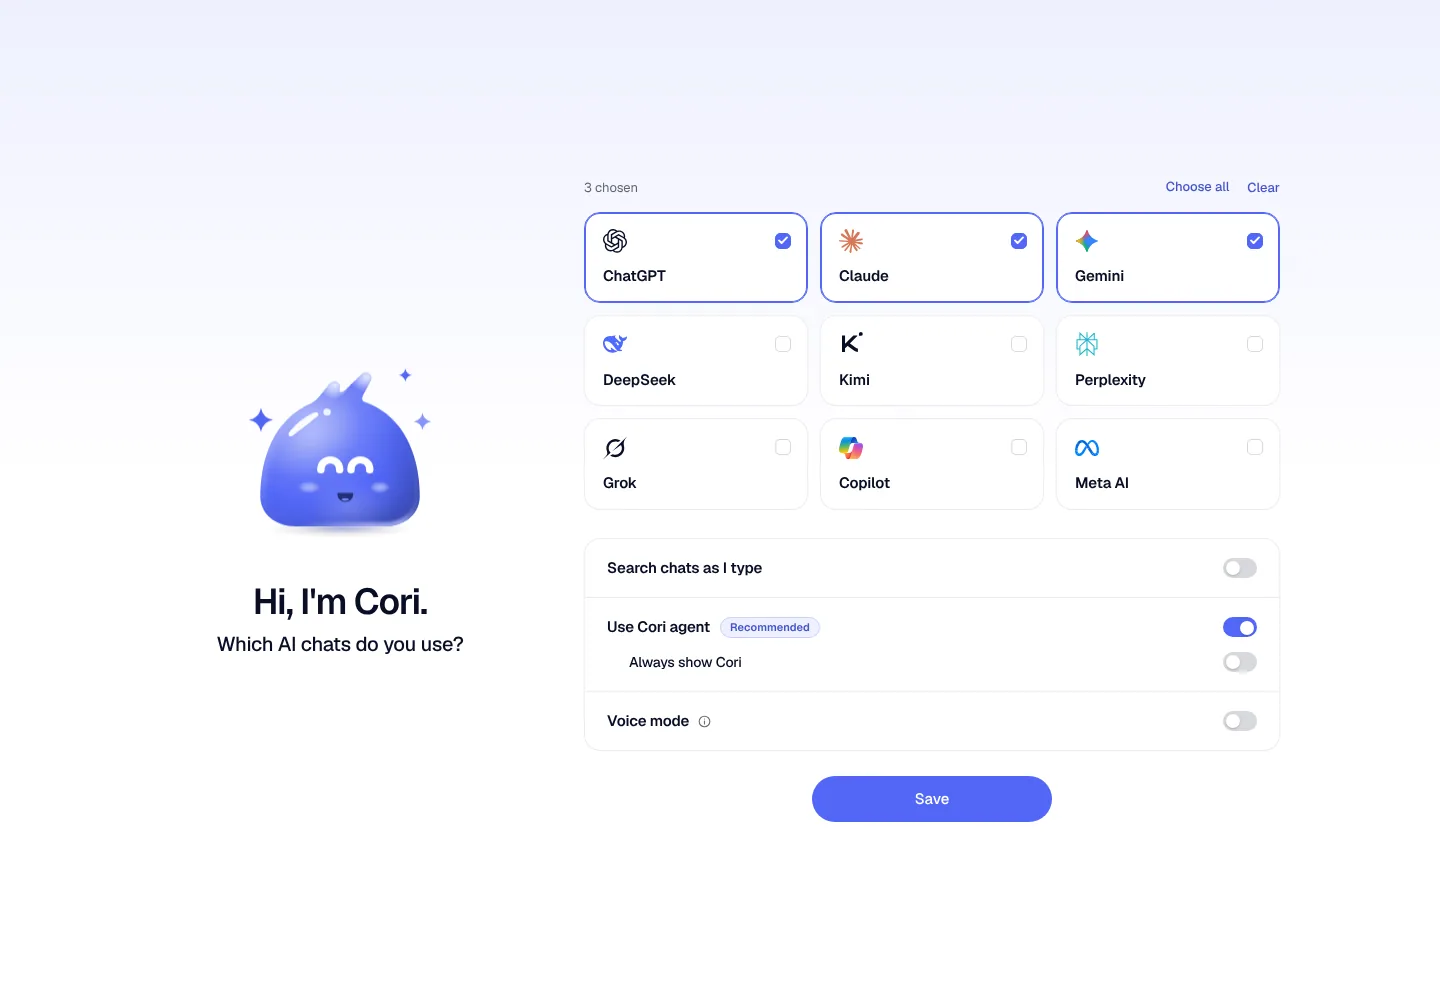
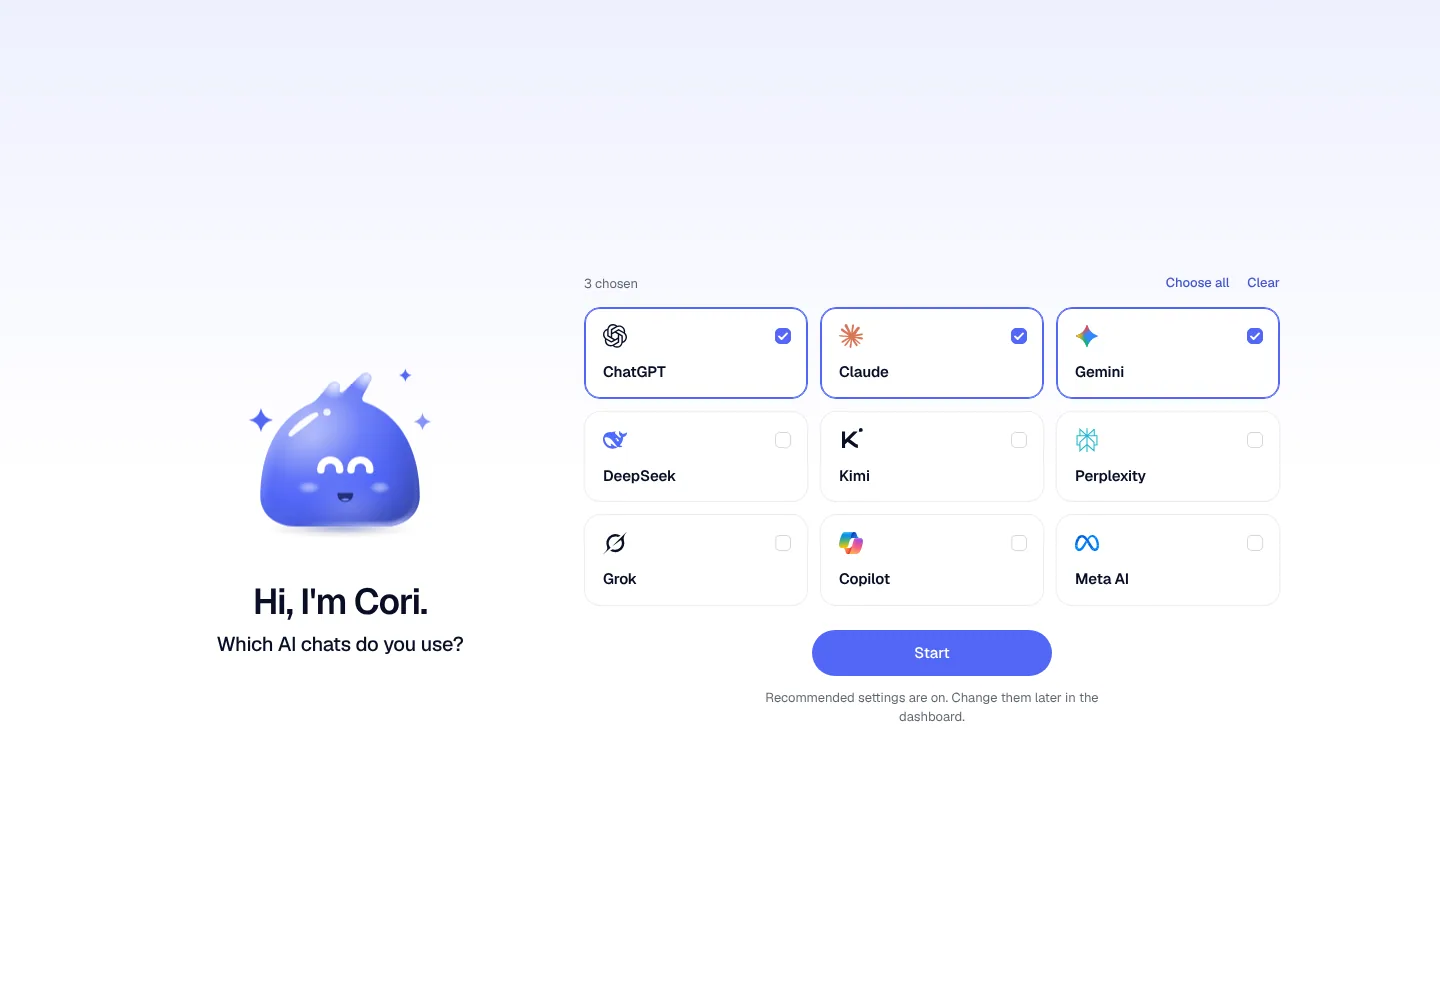
Show the extension's one choice onboarding on /welcome
The extension's v4 onboarding now asks only which AIs and then shows a working screen while it builds in the background, so the welcome pictures, their captions and the tool that takes them follow it. /welcome itself needs no change: it frames the page as before.

Claude-Session: https://claude.ai/code/session_01Ur6uqNCXa3ecJ23BnM9D9o

diff --git a/README.md b/README.md
@@ -150,14 +150,14 @@ pictures: [the site](docs/screenshots/site/README.md),
   </tr>
   <tr>
     <td width="50%">
-      <img src="docs/screenshots/dashboard/welcome.webp" alt="coere.ai/welcome framing the extension's onboarding: Hi, I'm Cori, Which AI chats do you use, with ChatGPT, Claude and Gemini chosen and Save" />
+      <img src="docs/screenshots/dashboard/welcome.webp" alt="coere.ai/welcome framing the extension's onboarding: Hi, I'm Cori, Which AI chats do you use, with ChatGPT, Claude and Gemini chosen, Start, and the line Recommended settings are on. Change them later in the dashboard." />
       <br />
-      <sub>After Connect Coere, coere.ai/welcome frames the extension's own onboarding.</sub>
+      <sub>After Connect Coere, coere.ai/welcome frames the extension's own onboarding. It asks only which AIs.</sub>
     </td>
     <td width="50%">
-      <img src="docs/screenshots/dashboard/welcome-building.webp" alt="The memory build live on coere.ai/welcome: Building memories, the graph growing among her chats on the stage, the steps, Pause and Stop, Reading Lisbon trip in January from ChatGPT, the memories each AI added, each AI's row, and the log of what Coere just did" />
+      <img src="docs/screenshots/dashboard/welcome-working.webp" alt="coere.ai/welcome after Start: Coere is saving your chats and building your memory. You can close this tab or keep browsing. We'll let you know when it's ready. A small card with her chats saved and memory's step with its count, and Open the dashboard" />
       <br />
-      <sub>Her memory building live on coere.ai: the chat in work, the graph as it grows, and Pause and Stop.</sub>
+      <sub>Then Coere saves her chats and builds her memory on its own, and says she can leave.</sub>
     </td>
   </tr>
 </table>

diff --git a/scripts/screenshots/README.md b/scripts/screenshots/README.md
@@ -77,8 +77,9 @@ Set `SHOTS_VERBOSE=1` to see the dev server's log, and
 6. **The welcome pictures**, last, in a second browser with the fake v4
    build, since it joins Maya's account as one more browser. After Connect
    Coere the tab is `www.coere.ai/welcome` framing the extension's own
-   onboarding. Her chats go into the Library and a memory build starts as
-   Build my memory starts one, so the onboarding shows it live. The run has
+   onboarding, whose one choice is the first picture. Her chats then go into
+   the Library and a memory build starts as Start starts one, so the
+   onboarding shows its working screen with the small live card. The run has
    no Anthropic key, so the host proxy hands the Claude proxy's calls to
    coere-v2's fake Claude (`lib/fake-ai.mjs`, under `tsx`), slowed as
    coere-v2's own live build spec slows it. The fake reads a chat with
